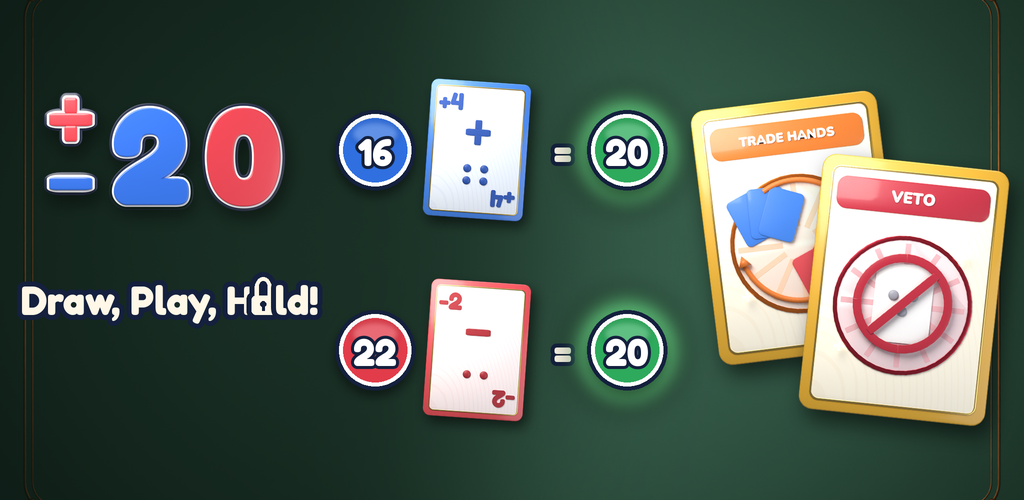
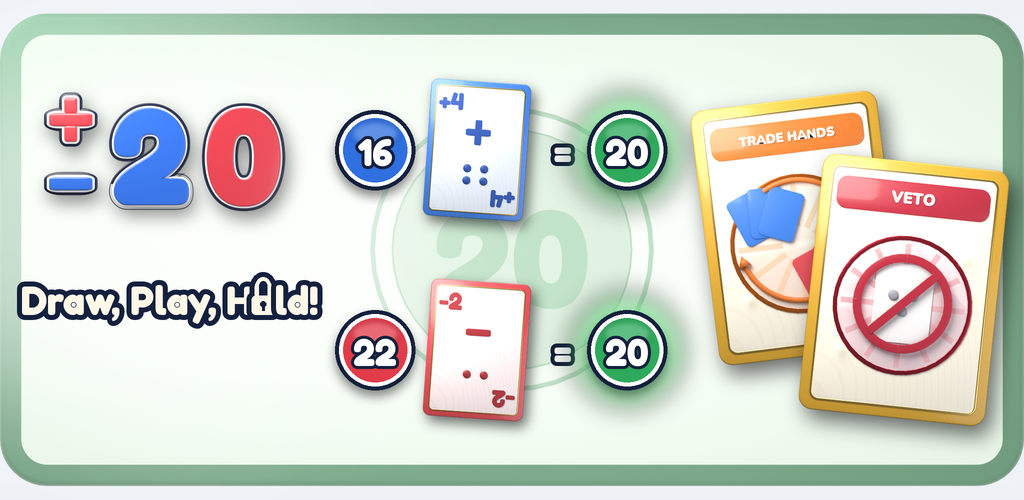
Store: feature graphic on the light Bronze board; screenshot fitter
featuregen.py now puts the whole rounded Bronze board in the near-white
room (as in the game) with a soft white glow behind the logo, instead of
darkening a cropped dark board. storeshots.py pads S25 screenshots to
Play's 2:1 limit with the room colour rather than cropping them.

Claude-Session: https://claude.ai/code/session_01B6x6LkTfAY1jKsb5hKx78W

diff --git a/tools/cardgen/featuregen.py b/tools/cardgen/featuregen.py
@@ -1,6 +1,6 @@
 """Compose the Play Store feature graphic (1024x500).
 
-Logo + tagline on the left, two "Modifier math" rows in the middle
+The light Bronze board in the white room; logo + tagline on the left, two "Modifier math" rows in the middle
 (16 [+4] = 20 and 22 [-2] = 20), and the Trade Hands / Veto cards fanned
 on the right. Run from tools/cardgen:  python featuregen.py
 """
@@ -19,6 +19,7 @@ BLUE = (47, 111, 224)
 RED = (226, 60, 74)
 GREEN = (46, 170, 92)
 CREAM = (255, 248, 232)
+ROOM = (238, 241, 246)  # TableWorld3D.RoomColor
 TAGLINE = "Draw, Play, Hold!"
 
 
@@ -141,22 +142,25 @@ def equation(base, y, start, mod_card, result, start_colour, x0):
     badge(base, bx, y, start, start_colour)
     shadow_paste(base, card(mod_card, 140), bx + S(40) + S(62), y, angle=-4, blur=6, offset=(4, 6))
     eq_x = bx + S(40) + S(124) + S(24)
-    outlined_text(d, (eq_x, y), "=", 40, CREAM, ow=4, inline=False)
+    outlined_text(d, (eq_x, y), "=", 40, (255, 255, 255), ow=4, inline=False)
     badge(base, eq_x + S(24) + S(40), y, result, GREEN, glow=(120, 255, 150))
 
 
 def main():
     base = Image.new("RGBA", (S(W), S(H)))
+    # the light Bronze board, whole and rounded, in the near-white room (as in the game)
+    base.paste(ROOM + (255,), (0, 0, S(W), S(H)))
     mat = Image.open(os.path.join(R, "playmats", "playmat_bronze_landscape.png")).convert("RGBA")
-    base.alpha_composite(cover(mat, S(W), S(H)))
+    mh = round(mat.height * S(W) / mat.width)
+    base.alpha_composite(mat.resize((S(W), mh), Image.LANCZOS), (0, (S(H) - mh) // 2))
 
-    # darken the left third so the logo and tagline read cleanly
+    # a soft white glow behind the logo and tagline so they lift off the board
     vg = Image.new("L", (S(W), S(H)), 0)
-    ImageDraw.Draw(vg).ellipse([S(-260), S(-120), S(560), S(620)], fill=150)
-    vg = vg.filter(ImageFilter.GaussianBlur(S(80)))
-    dark = Image.new("RGBA", (S(W), S(H)), (6, 16, 12, 255))
-    dark.putalpha(vg)
-    base.alpha_composite(dark)
+    ImageDraw.Draw(vg).ellipse([S(-80), S(40), S(420), S(420)], fill=140)
+    vg = vg.filter(ImageFilter.GaussianBlur(S(60)))
+    glow = Image.new("RGBA", (S(W), S(H)), (255, 255, 255, 255))
+    glow.putalpha(vg)
+    base.alpha_composite(glow)
 
     # logo + tagline
     logo = Image.open(os.path.join(R, "brand", "logo_1600x800.png")).convert("RGBA")

diff --git a/tools/cardgen/storeshots.py b/tools/cardgen/storeshots.py
@@ -1,0 +1,53 @@
+"""Make phone screenshots fit Google Play's 2:1 limit without cutting anything off.
+
+Play rejects a screenshot whose long side is more than twice its short side. The S25's
+19.5:9 screen is taller than that, so instead of cropping off the score or the hand, this
+pads the short side with the game's room colour (the near-white behind the board), which
+looks like part of the game.
+
+    python storeshots.py <folder of screenshots> [out folder]
+
+Writes PNGs to <folder>/play (or the out folder). Shots that already fit are copied as-is.
+"""
+import os
+import sys
+from PIL import Image
+
+ROOM = (238, 241, 246)  # TableWorld3D.RoomColor
+MAX_RATIO = 2.0
+
+
+def fit(im):
+    w, h = im.size
+    long_side, short_side = max(w, h), min(w, h)
+    if long_side <= short_side * MAX_RATIO:
+        return im
+    need = -(-long_side // 2)  # ceil(long / 2): the short side that makes exactly 2:1
+    if h > w:
+        out = Image.new("RGB", (need, h), ROOM)
+        out.paste(im, ((need - w) // 2, 0))
+    else:
+        out = Image.new("RGB", (w, need), ROOM)
+        out.paste(im, (0, (need - h) // 2))
+    return out
+
+
+def main():
+    if len(sys.argv) < 2:
+        print(__doc__)
+        sys.exit(1)
+    src = sys.argv[1]
+    dst = sys.argv[2] if len(sys.argv) > 2 else os.path.join(src, "play")
+    os.makedirs(dst, exist_ok=True)
+    for name in sorted(os.listdir(src)):
+        if not name.lower().endswith((".png", ".jpg", ".jpeg", ".webp")):
+            continue
+        im = Image.open(os.path.join(src, name)).convert("RGB")
+        out = fit(im)
+        path = os.path.join(dst, os.path.splitext(name)[0] + ".png")
+        out.save(path, optimize=True)
+        print(f"{name}: {im.size[0]}x{im.size[1]} -> {out.size[0]}x{out.size[1]}")
+
+
+if __name__ == "__main__":
+    main()

diff --git a/store/STORE_LISTING.md b/store/STORE_LISTING.md
@@ -53,11 +53,13 @@ Easy to learn in one match, with a short guided tutorial, and plenty to master.
 
 **Graphics**
 - App icon 512×512: `assets/aimfor20_art/store_icon_512.png` (the "±20" logo on cream)
-- Feature graphic 1024×500: `store/feature_graphic_1024x500.png`
-- Phone screenshots (2–8): capture on the S25, then **crop to 9:18 (1080×2160)** — Play rejects
-  screenshots whose long side is more than twice the short side, and the S25's 19.5:9 is over that.
-  Suggested set: (1) a stage mid-set with a Modifier picked up and the green on-target glow;
-  (2) the Market; (3) a special card being played; (4) the Collection; (5) the Shop;
+- Feature graphic 1024×500: `store/feature_graphic_1024x500.png` (the light Bronze board; rebuild with `python tools/cardgen/featuregen.py`)
+- Phone screenshots (2–8): take them on the S25, then run
+  `python tools/cardgen/storeshots.py <folder>`. Play rejects screenshots whose long side is more
+  than twice the short side, and the S25's 19.5:9 is over that; the script pads the sides with the
+  game's near-white room colour (instead of cropping off the score or hand) and writes the results
+  to `<folder>/play`. Suggested set: (1) a stage mid-set with a Modifier picked up and the green
+  on-target glow; (2) the Market; (3) a special card being played; (4) the Collection; (5) the Shop;
   (6) Endless mode on its night table.
 
 **Category**: Games → Card · **Tags**: Card, Casual, Strategy, Single player, Offline
